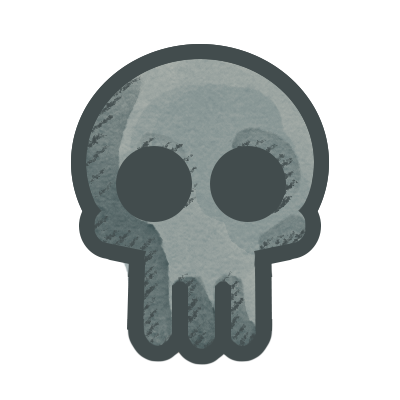
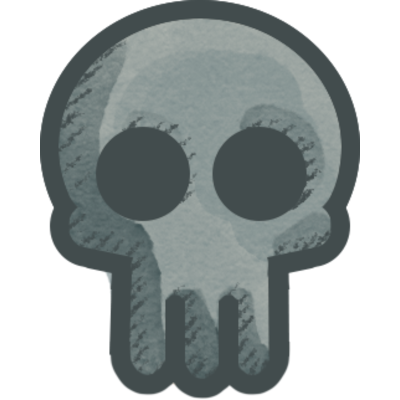
Added death popup to prefab

diff --git a/Assets/Scripts/UIPopupNumbers.cs b/Assets/Scripts/UIPopupNumbers.cs
@@ -12,7 +12,7 @@ public class UIPopupNumbers : MonoBehaviour
     [SerializeField] public Image icon;
     private float disappearTimer = 1.0f;
     public Color textColor;
-    [SerializeField] private Sprite[] icons;//0 is HP, 1 is Manna. LP don't have no icon
+    [SerializeField] private Sprite[] icons;//0 is HP, 1 is Manna, 2 is death. LP don't have no icon
 
     public void Setup(float amount, int type)
     {
@@ -35,23 +35,31 @@ public class UIPopupNumbers : MonoBehaviour
                 numbersTMP.text = amount.ToString();
             }          
         }
-        else
+        else if (type == 1)//Manna
         {
             numbersTMP.text = "+" + amount.ToString();
         }
-                
+        else if (type == 3)//death
+        {
+            numbersTMP.text = string.Empty;
+        }
 
 
 
-        if (type < 2)
+
+        if (type < 2)//Manna or HP
         {
             icon.enabled = true;
             icon.sprite = icons[type];
         }
-        else
+        else if (type == 3)//death
+        {
+            icon.enabled = true;
+            icon.sprite = icons[2];
+        }
+        else//LP
             icon.enabled = false;
 
-        //remind me to add code that makes negative numbers red
             
     }
     public static UIPopupNumbers Create(Vector3 position, Transform parent, float amount, int type)
